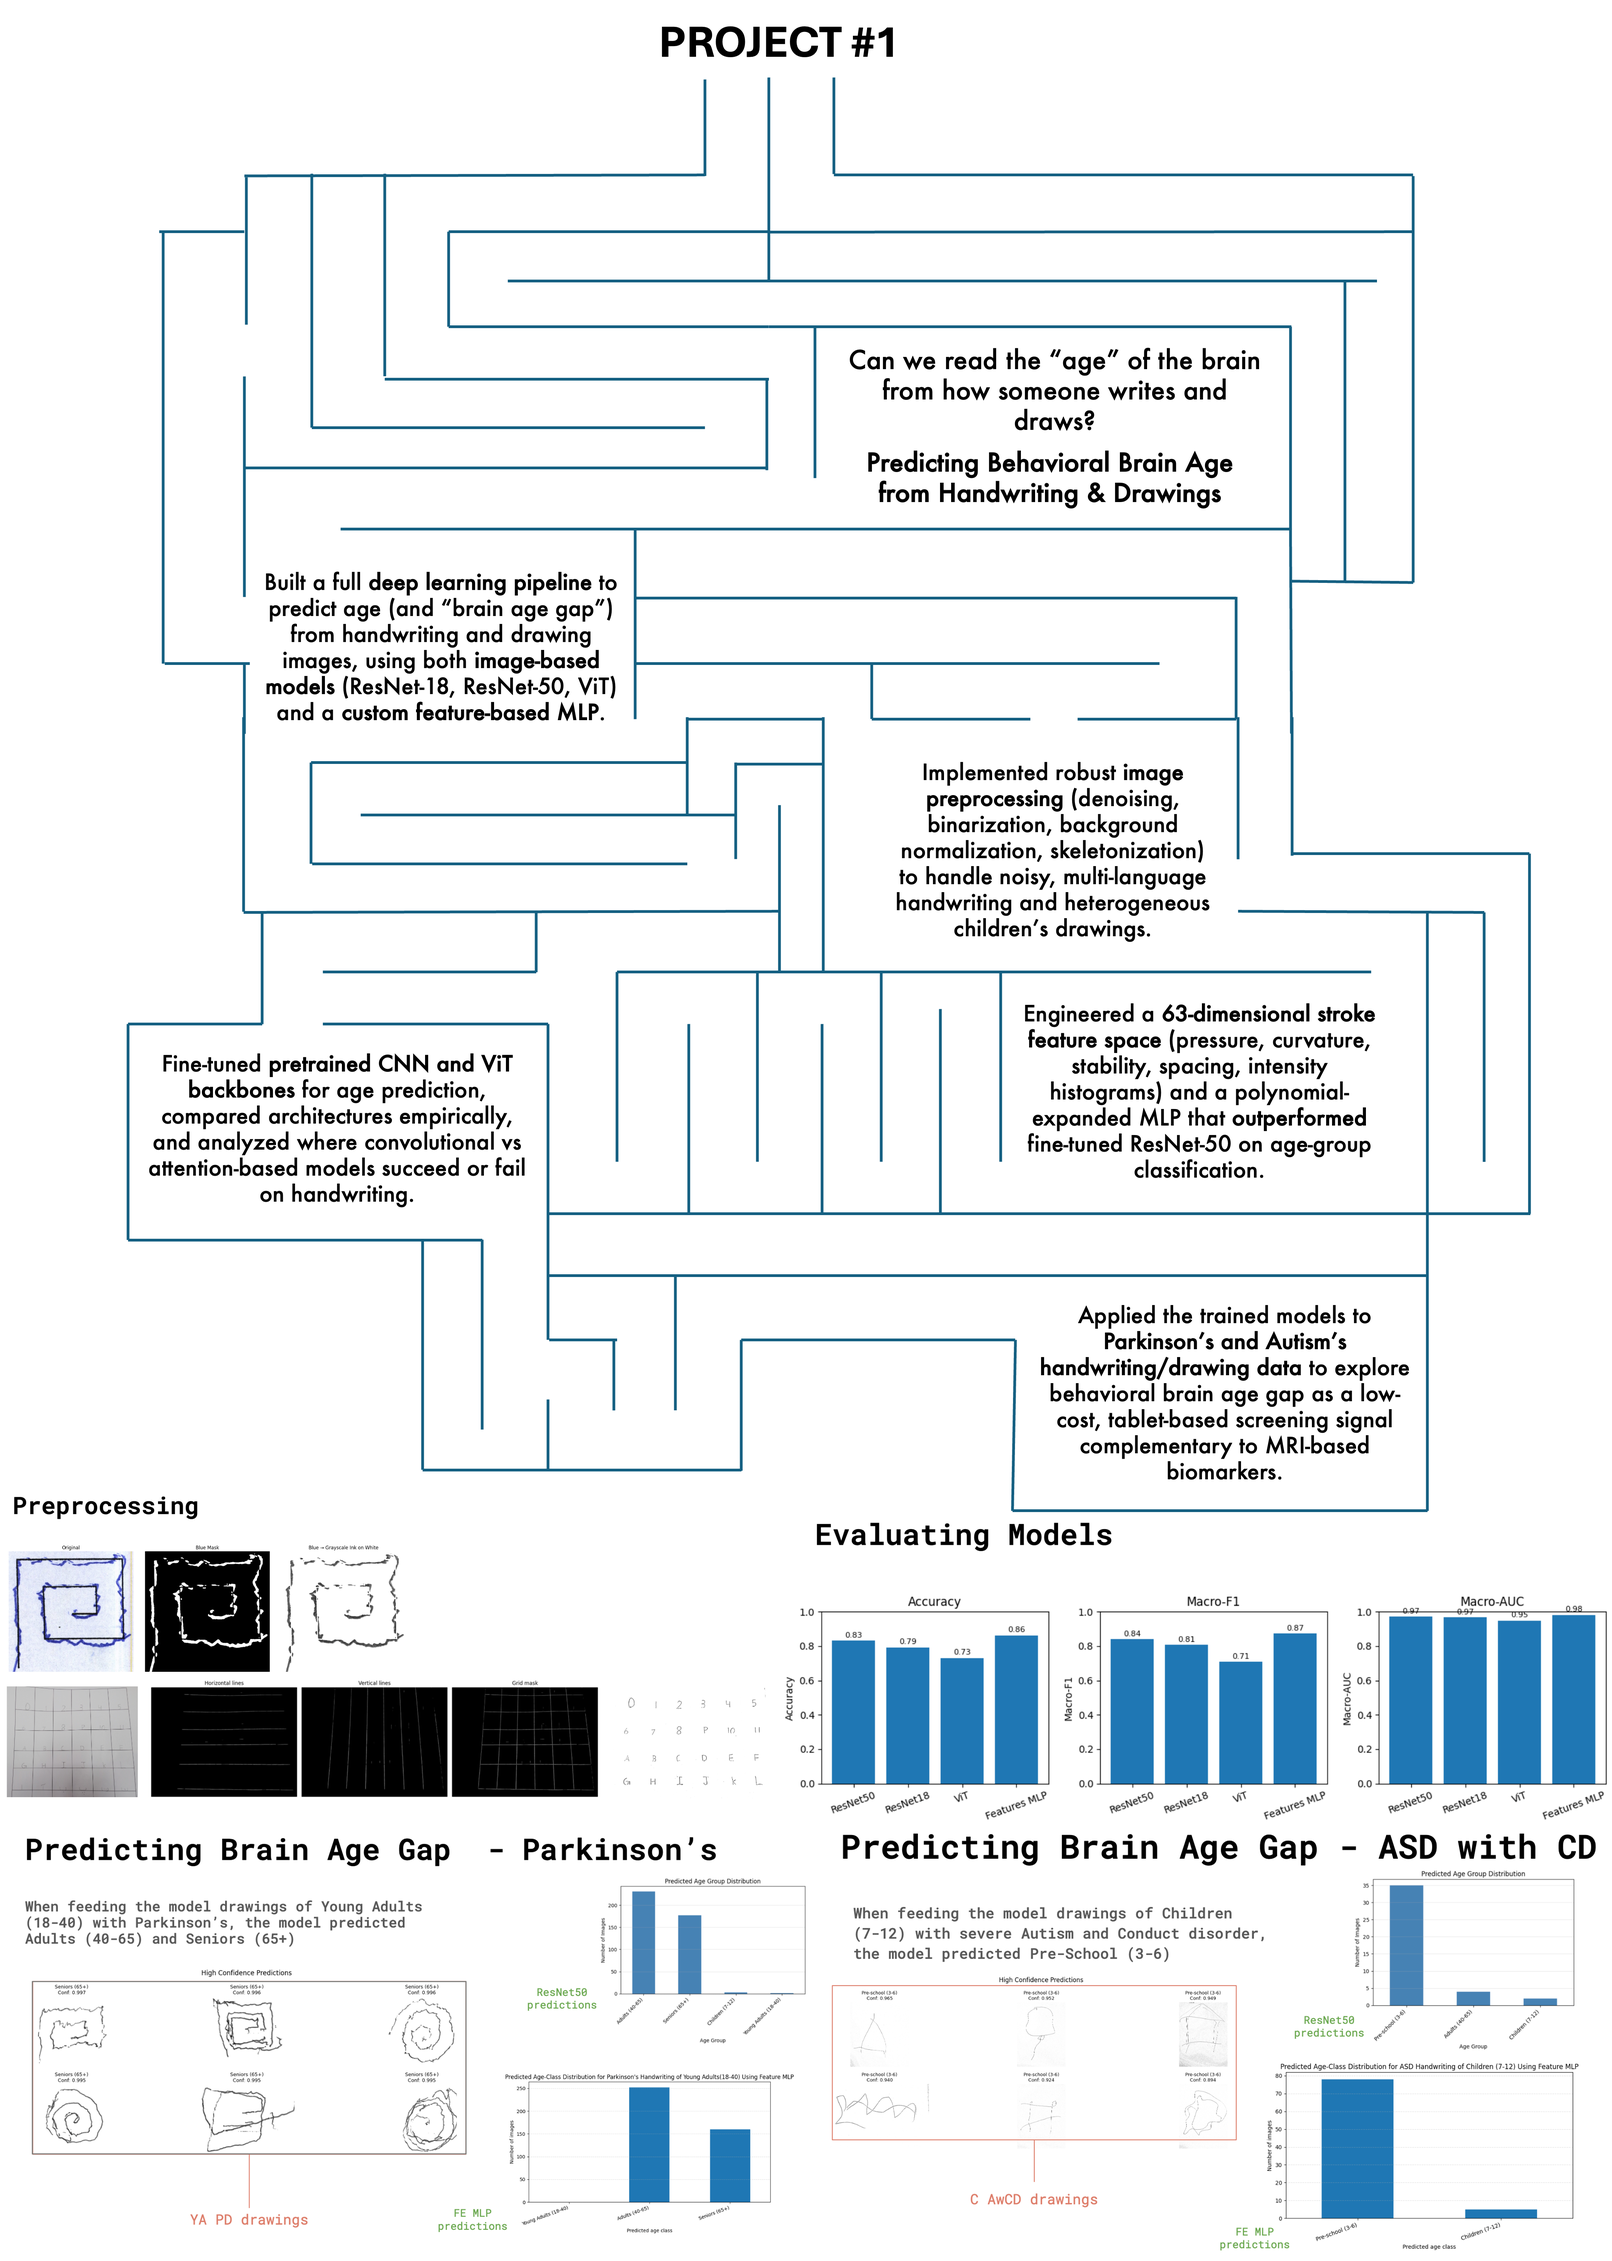
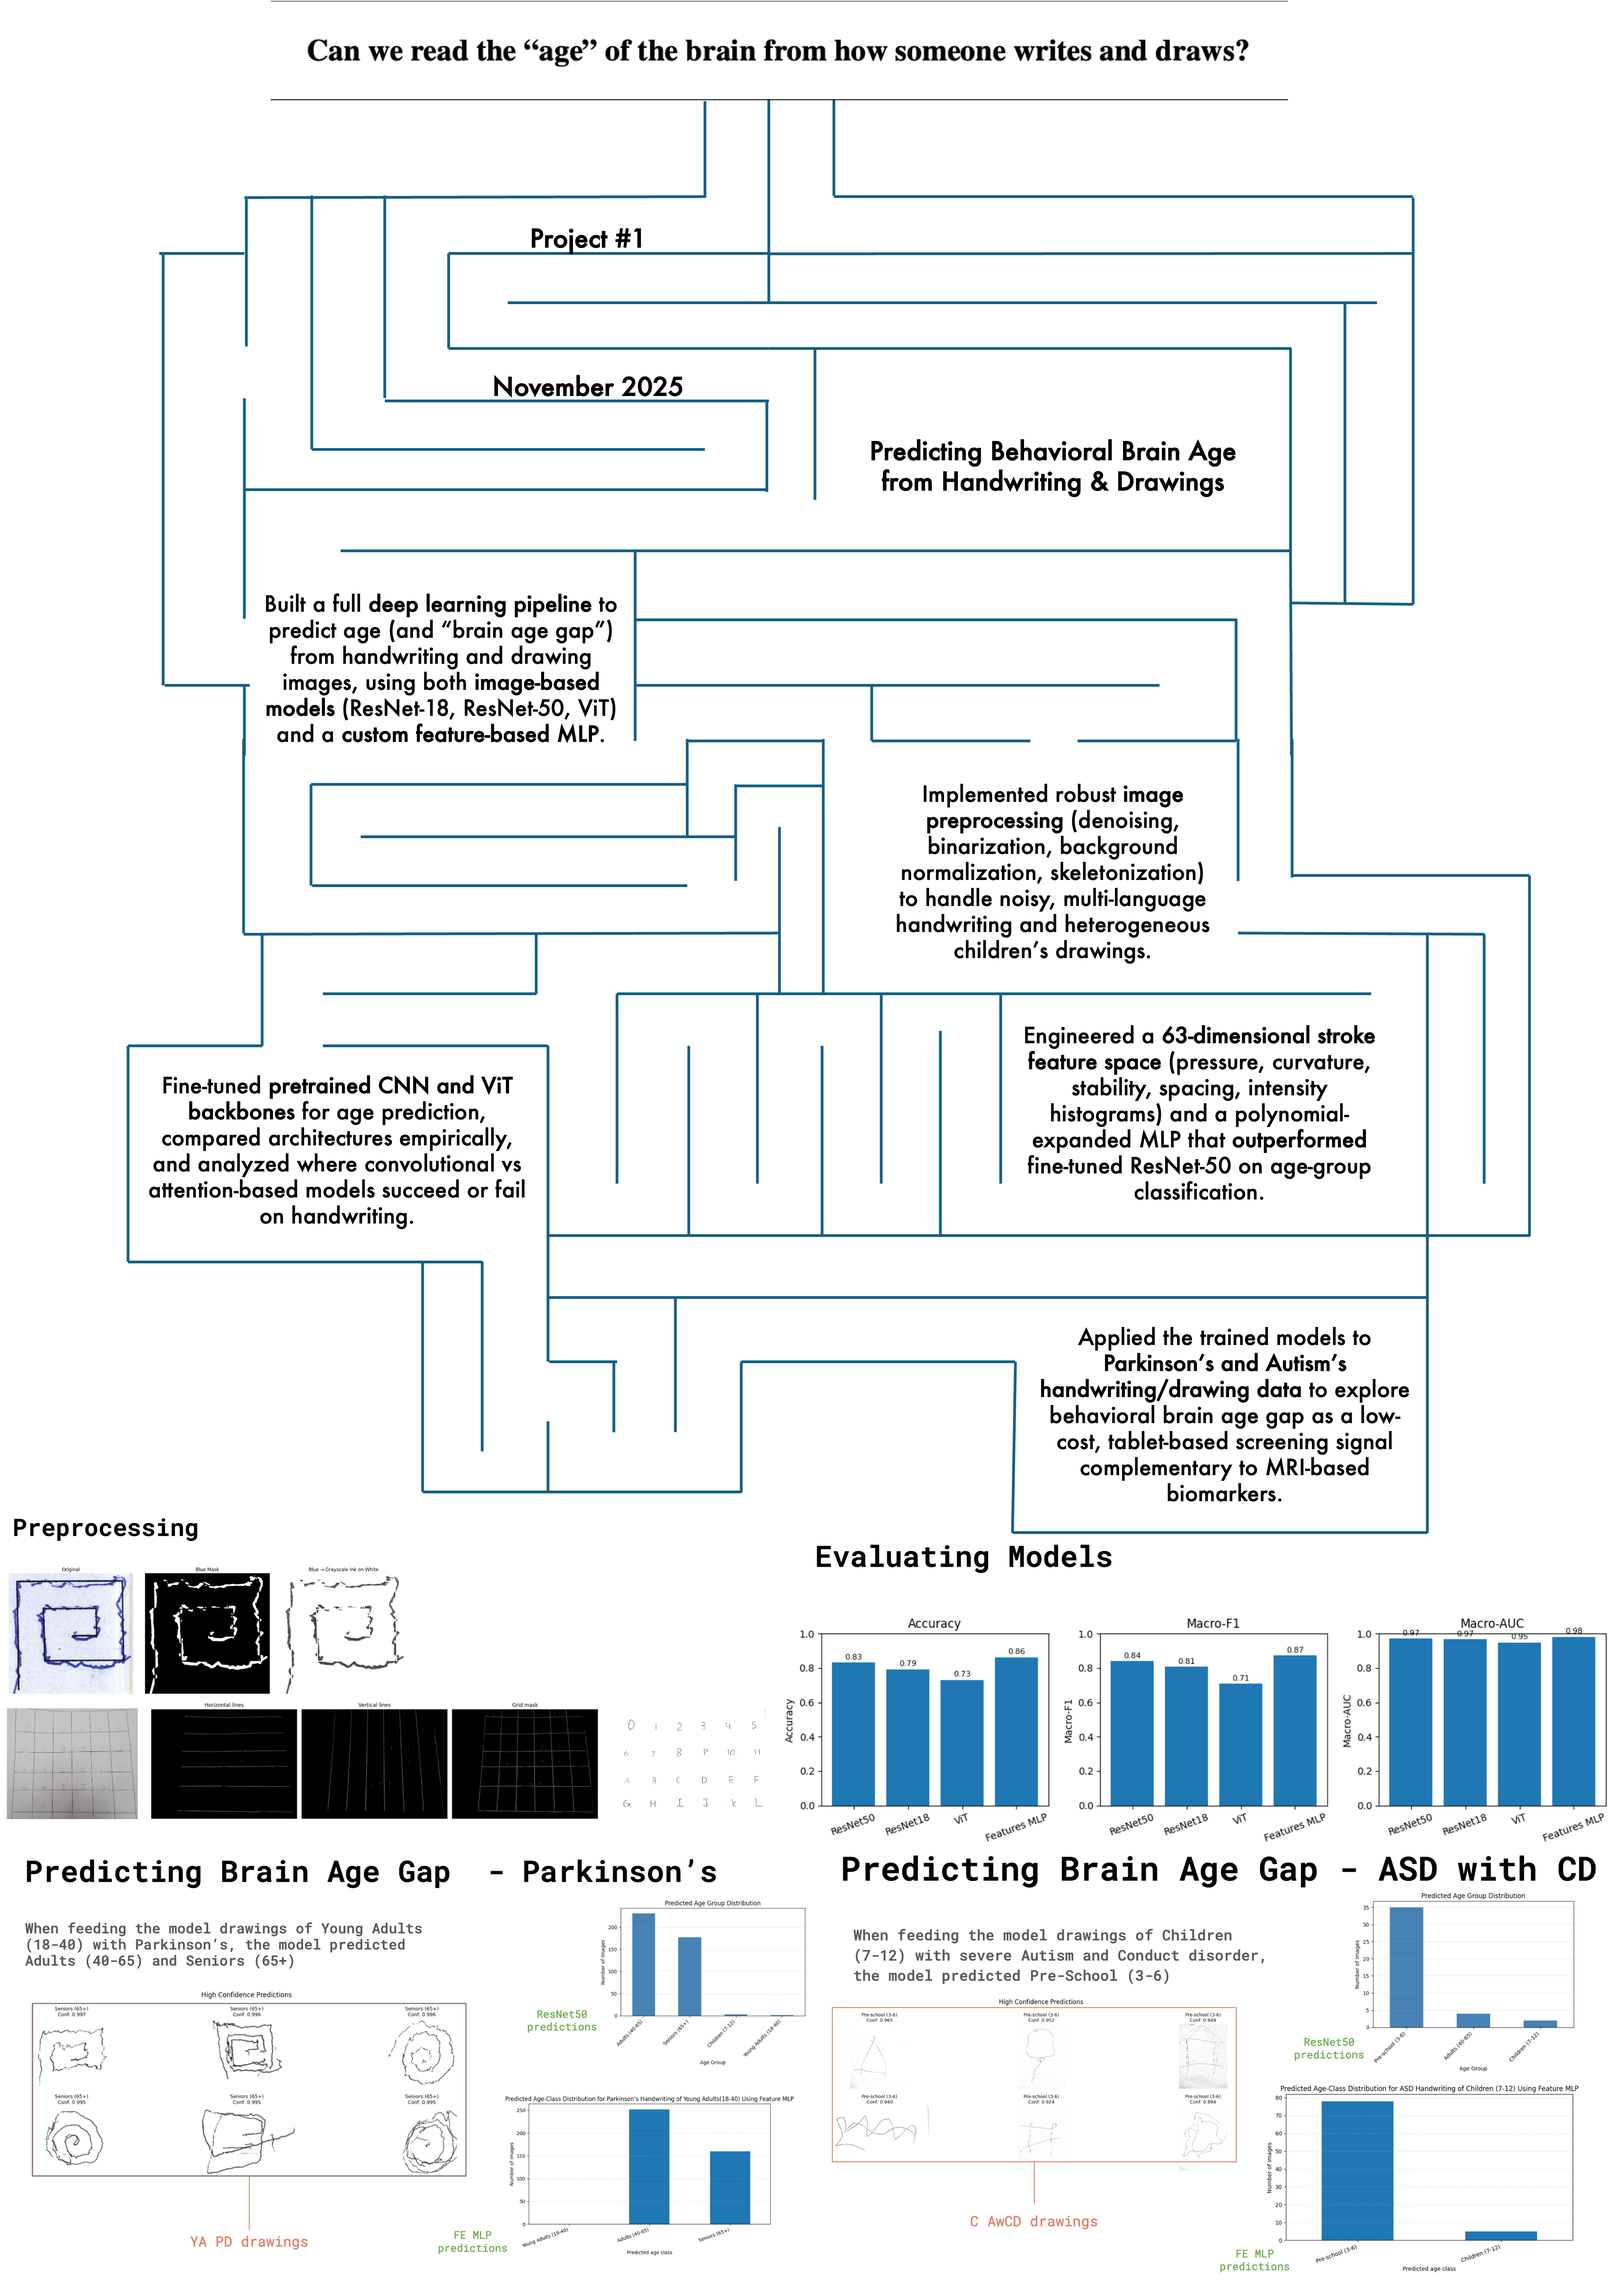
mldl project 2 design

diff --git a/styles.css b/styles.css
@@ -491,7 +491,7 @@ body {
 }
 
 .stacked-images-nrg img {
-    max-width: 90%;
+    max-width: 85%;
     height: auto;
     display: block;
     margin: 0 auto; /* Centers the image */
